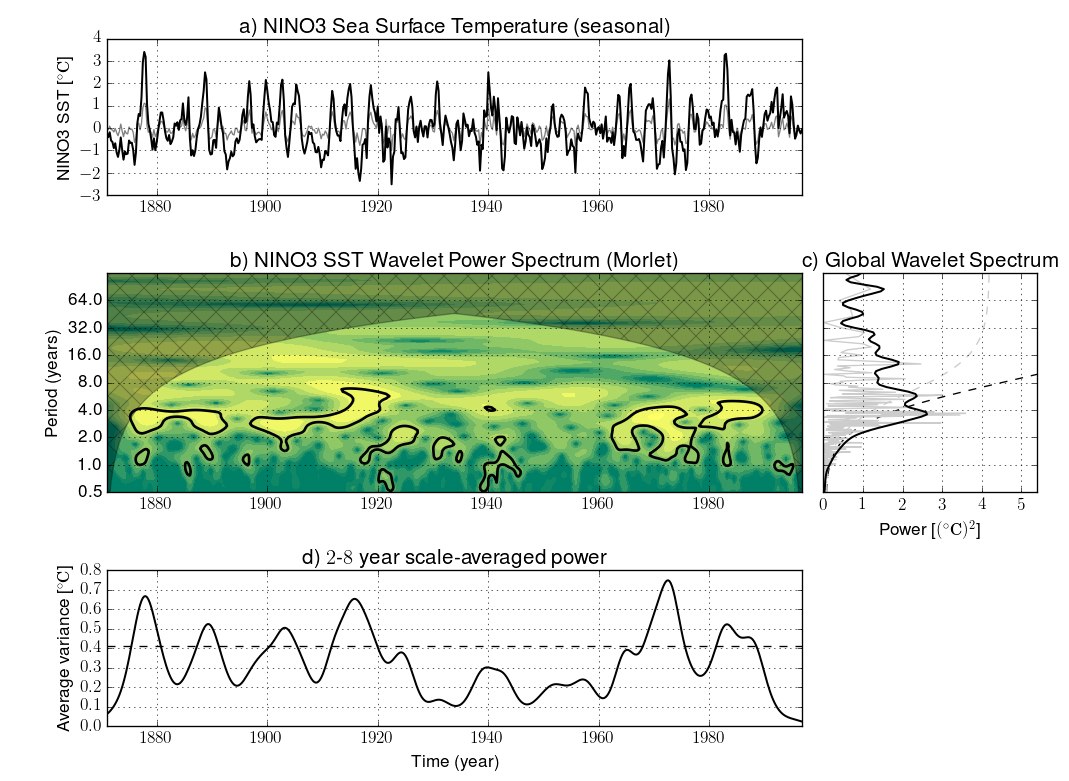
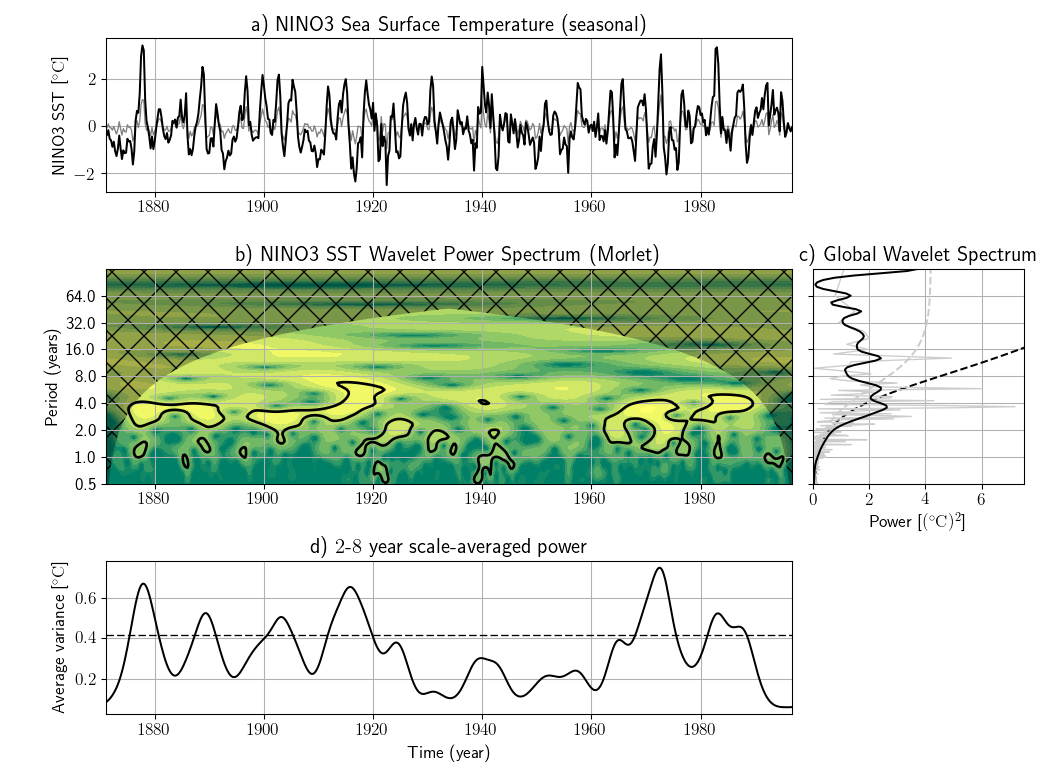
Small modifications to make the code compatible with Python 3

diff --git a/pycwt/wavelet.py b/pycwt/wavelet.py
@@ -71,7 +71,7 @@ def cwt(signal, dt, dj=1/12, s0=-1, J=-1, wavelet='morlet'):
            0.25, 0.25, 0.5, 28, mother)
 
     """
-    if isinstance(wavelet, unicode) or isinstance(wavelet, str):
+    if isinstance(wavelet, str) or isinstance(wavelet, bytes):
         wavelet = mothers[wavelet]()
 
     # Original signal length.
@@ -153,7 +153,7 @@ def icwt(W, sj, dt, dj=1/12, wavelet='morlet'):
     >> iwave = wavelet.icwt(wave, scales, 0.25, 0.25, mother)
 
     """
-    if isinstance(wavelet, unicode) or isinstance(wavelet, str):
+    if isinstance(wavelet, str) or isinstance(wavelet, bytes):
         wavelet = mothers[wavelet]()
 
     a, b = W.shape
@@ -226,7 +226,7 @@ def significance(signal, dt, scales, sigma_test=0, alpha=None,
         Theoretical red-noise spectrum as a function of period.
 
     """
-    if isinstance(wavelet, unicode) or isinstance(wavelet, str):
+    if isinstance(wavelet, str) or isinstance(wavelet, bytes):
         wavelet = mothers[wavelet]()
 
     try:
@@ -367,7 +367,7 @@ def xwt(signal, signal2, dt, dj=1/12, s0=-1, J=-1, significance_level=0.95,
         Significance levels as a function of scale.
 
     """
-    if isinstance(wavelet, unicode) or isinstance(wavelet, str):
+    if isinstance(wavelet, str) or isinstance(wavelet, bytes):
         wavelet = mothers[wavelet]()
 
     # Defines some parameters like length of both time-series, time step
@@ -454,7 +454,7 @@ def wct(signal, signal2, dt, dj=1/12, s0=-1, J=-1, sig=True, significance_level=
     wavelet.cwt, wavelet.xwt
 
     """
-    if isinstance(wavelet, unicode) or isinstance(wavelet, str):
+    if isinstance(wavelet, str) or isinstance(wavelet, bytes):
         wavelet = mothers[wavelet]()
 
     if s0 == -1: s0 = 2 * dt / wavelet.flambda()  # Smallest resolvable scale

diff --git a/pycwt/sample/sample.py b/pycwt/sample/sample.py
@@ -94,7 +94,7 @@ elif sample == 'SOI':
     else:
         units2 = '{}^2'.format(units)
 else:
-    raise ValueError, 'No valid dataset chosen.'
+    raise ValueError('No valid dataset chosen.')
 
 var = np.loadtxt(fname)
 avg1, avg2 = (2, 8)                  # Range of periods to average
@@ -163,7 +163,7 @@ plt.ion()
 params = {
           'font.size': 13.0,
           'text.usetex': usetex,
-          'text.fontsize': 'medium',
+          #'text.fontsize': 'medium',
           'axes.grid': True,
          }
 plt.rcParams.update(params)          # Plot parameters
